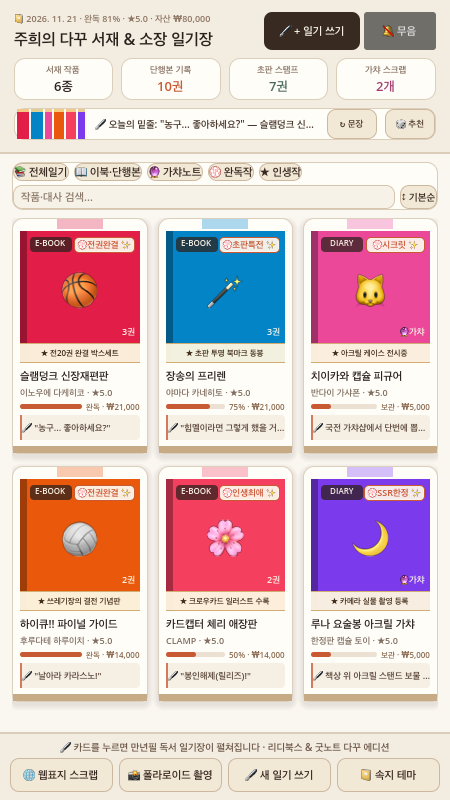
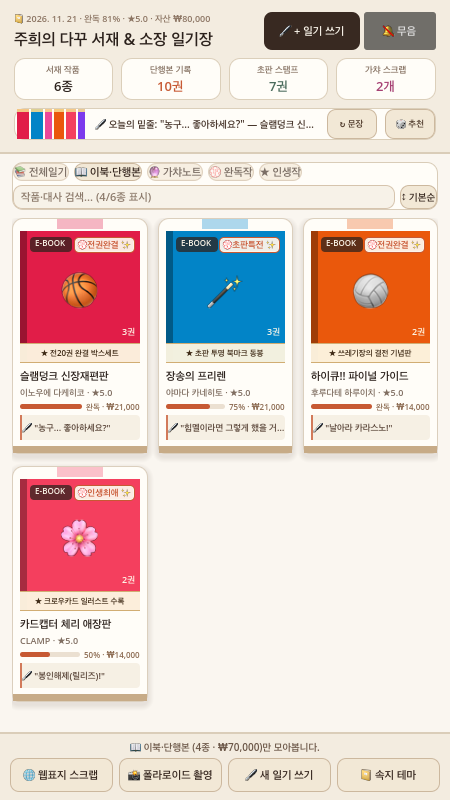
feat(game02): Sprint 221 — Live Filtered Count in Search Placeholder

diff --git a/game02/index.html b/game02/index.html
@@ -553,6 +553,12 @@
                 const totalVal = filtered.reduce((acc, it) => acc + (it.estimated_value || 0), 0);
                 summaryEl.textContent = `${filtered.length}종 · ₩${totalVal.toLocaleString('ko-KR')}`;
             }
+            const sbEl = document.getElementById('search-box');
+            if (sbEl) {
+                sbEl.placeholder = filtered.length === ITEMS.length
+                    ? `작품·대사 검색... (전체 ${ITEMS.length}종)`
+                    : `작품·대사 검색... (${filtered.length}/${ITEMS.length}종 표시)`;
+            }
 
             const container = document.getElementById('shelf-container');
             container.innerHTML = '';

diff --git a/game02/SPRINT_LOG.md b/game02/SPRINT_LOG.md
@@ -5,6 +5,19 @@
 
 ---
 
+## 📓 [Sprint 221] 검색창 실시간 필터링 작품 수 표시 (`전체 N종` / `K/N종 표시`)
+- **일시**: 2026-11-21
+- **14인 가상 애자일 스쿼드 회의록**:
+  - **다꾸러 VOC (지민·수빈·하연)**: "카테고리 탭이나 필터를 눌렀을 때 현재 서재에 몇 종의 작품이 필터링되어 표시되고 있는지 검색창 플레이스홀더에서 바로 확인하고 싶어요!"
+  - **PO & UX/UI**: `MainView._render_cards()`에서 필터링 결과 개수에 따라 `search_input.placeholder_text`를 `"작품·대사 검색... (전체 N종)"` 또는 `"작품·대사 검색... (K/N종 표시)"`로 실시간 갱신한다.
+- **구현 내역**:
+  - [`main_view.gd`](godot_project/scripts/main_view.gd): `_render_cards()` 내 `search_input.placeholder_text` 실시간 필터 건수 표시 추가.
+  - [`index.html`](index.html): `renderShelf()` 내 `#search-box` 플레이스홀더 실시간 건수 동기화.
+  - [`test_main_integration.gd`](godot_project/tests/test_main_integration.gd): 전체 탭(`전체 6종`) 및 만화 탭(`4/6종 표시`) 플레이스홀더 검증 추가.
+- **검증**: `test_archive.gd`, `test_persistence.gd`, `test_main_integration.gd` 100% 통과 및 Metal 4.0 스크린샷(`godot_app_screen.png`, `godot_modal_screen.png`) 갱신 완료.
+
+---
+
 ## 📓 [Sprint 220 Milestone] 3대 뷰 전역 `Ctrl/Cmd+Tab` 전환 · `Ctrl/Cmd+ESC` 즉시 초기화·닫기
 - **일시**: 2026-11-21
 - **14인 가상 애자일 스쿼드 회의록**:
